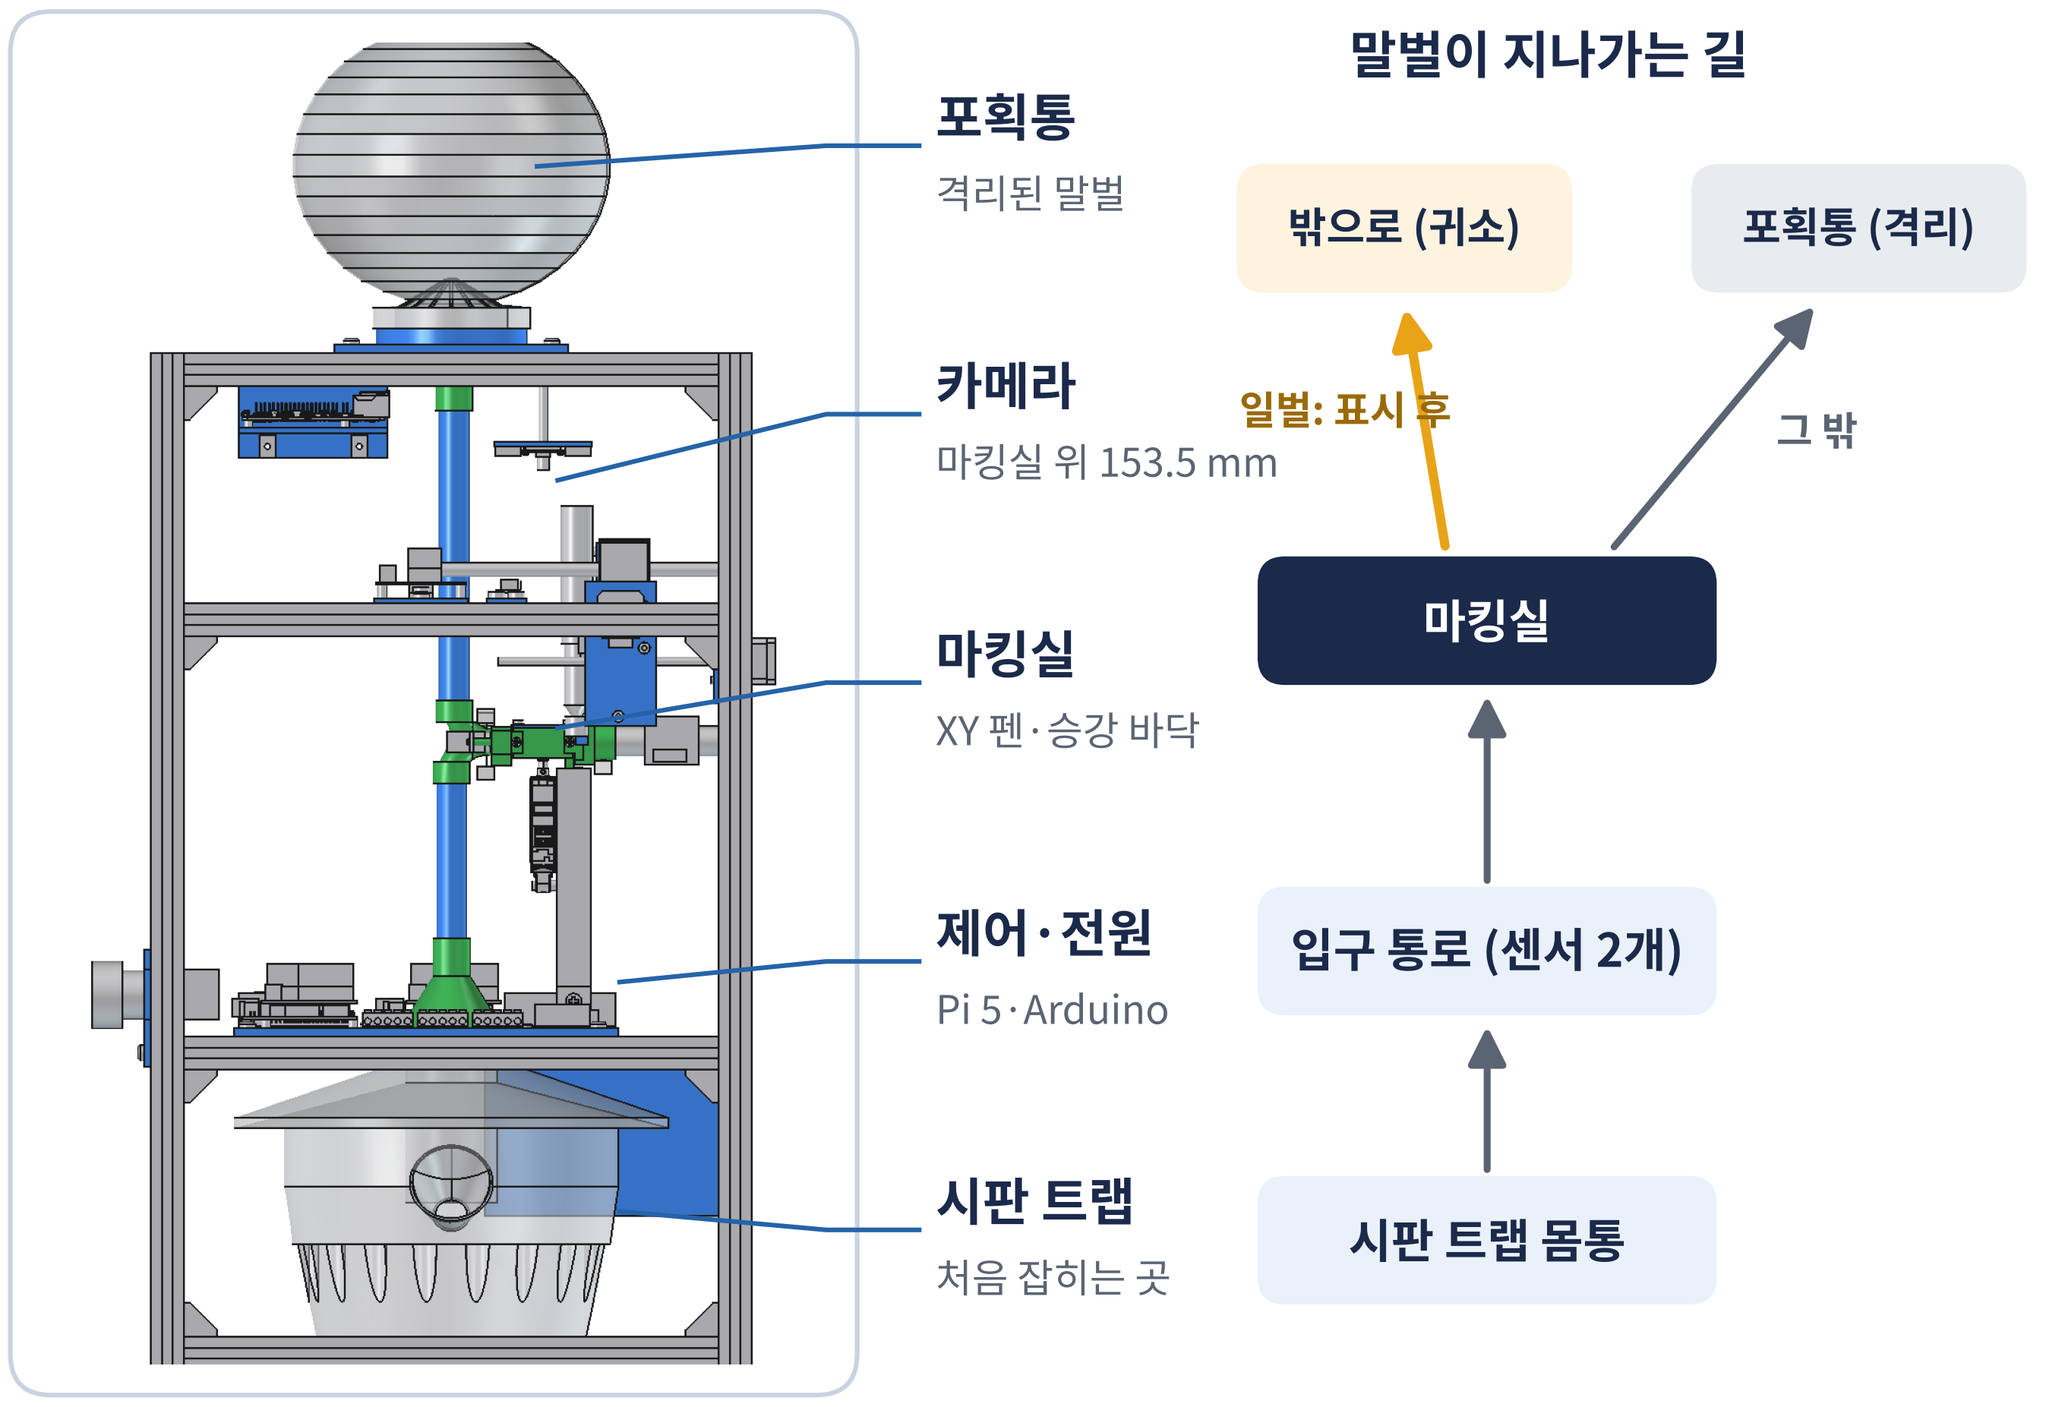
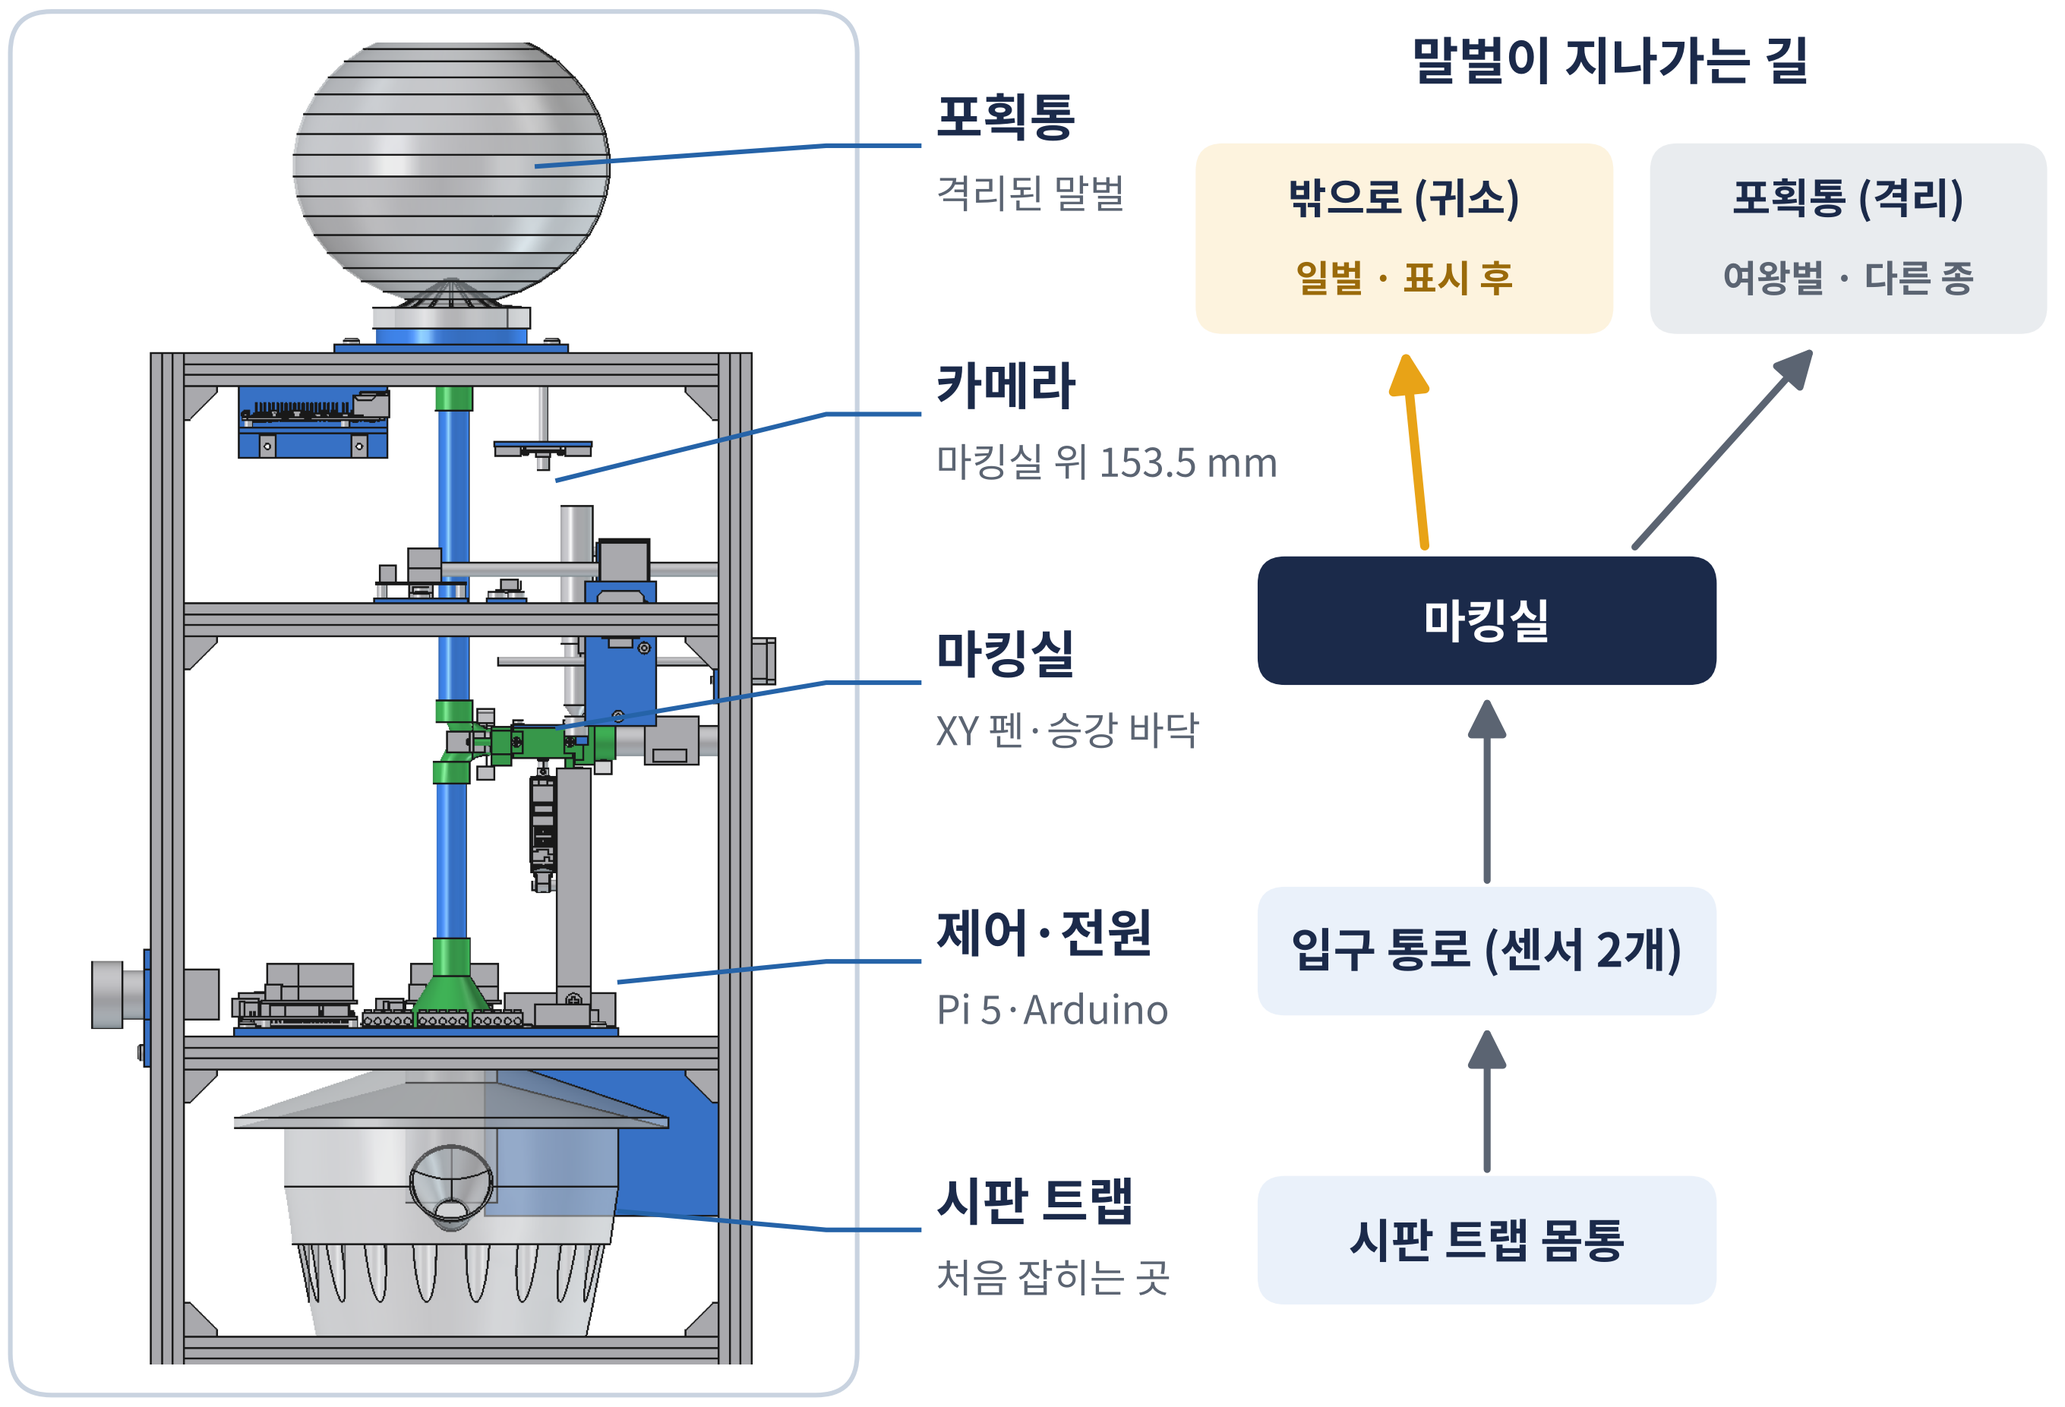
[서현] 포스터·판넬: 그림 겹침 없앰, 결론·향후 (표본 시험 확정·야외 시험 후속), 판넬 다시 배치, 인수인계 11-23 (CAP-AI-62)
Claude-Session: https://claude.ai/code/session_01Jzg83D8Aa1A65w4ViX2JyU

diff --git a/design/poster/figs2.py b/design/poster/figs2.py
@@ -154,7 +154,7 @@ a.add_patch(Rectangle((6, 47.5), 52, 1.6, fc='#8C96A3', ec='none'))
 a.add_patch(FancyBboxPatch((22, 45.2), 8, 6.4, boxstyle='round,pad=0,rounding_size=0.6', fc=BLUE, ec='none'))
 a.add_patch(Polygon([(25.3, 45.2), (26.7, 45.2), (26.0, 40.6)], closed=True, fc=NAVY, ec='none'))
 a.add_patch(FancyArrowPatch((32.5, 45), (32.5, 41.2), arrowstyle='-|>', mutation_scale=26, lw=3, color=BLUE))
-a.text(7, 52.0, 'XY 이송 장치 (펜을 앞뒤·좌우로)', fontsize=20, color=NAVY, weight='bold')
+a.text(36, 53.6, 'XY 이송 장치', fontsize=20, color=NAVY, weight='bold'); a.text(36, 50.6, '펜을 앞뒤·좌우로 옮김', fontsize=17, color=GRAY)
 # 격자판
 a.add_patch(Rectangle((8, 37.5), 44, 2.2, fc=GL, ec=BLUE, lw=2))
 for gx in np.arange(10, 51, 3.0): a.add_patch(Rectangle((gx, 37.5), 1.1, 2.2, fc='white', ec='none'))
@@ -185,7 +185,8 @@ note(26, '3', '힘을 재며 멈춤', '스프링 밑 로드셀이 누르는 힘\
 note(10, '4', '격자 구멍으로 점', '펜 약 0.3 N, 마지막 2 mm는\n천천히 내려 가슴에 점', BLUE)
 a.text(30, 8.5, '모터', ha='center', va='center', fontsize=17, color='white', weight='bold')
 a.text(36.5, 18.2, '로드셀', fontsize=17, color=GRAY, va='center'); a.text(34, 23.5, '스프링', fontsize=17, color=GRAY, va='center')
-a.text(8, 25.5, '투명 격자판 (구멍 Ø3)', fontsize=17, color=BLUE); a.plot([20, 20], [27, 37.4], color=BLUE, lw=1.5)
+a.text(1, 42.6, '투명 격자판\n(구멍 Ø3)', fontsize=17, color=BLUE, linespacing=1.2); a.plot([11.5, 11.5], [42.4, 39.8], color=BLUE, lw=1.5)
+a.text(1.5, 65.2, '마킹실 작동 원리', fontsize=22, color=NAVY, weight='bold')
 a.text(2, 1.2, '마킹실 단면 개념도 (실제 비율 아님)', fontsize=16, color=GRAY)
 f.savefig('fig_idea.png'); plt.close(f)
 
@@ -210,9 +211,27 @@ def box(y, t, fc=LIGHT, tc=NAVY, w=22):
     card(a, X - w / 2, y - 3, w, 6, fc=fc, ec=fc, r=1.2); a.text(X, y, t, ha='center', va='center', fontsize=20, color=tc, weight='bold')
 box(8, '시판 트랩 몸통'); box(22, '입구 통로 (센서 2개)'); box(38, '마킹실', NAVY, 'white')
 arrow(a, X, 11.2, X, 18.6); arrow(a, X, 25.2, X, 34.6)
-card(a, 60, 54, 16, 6, fc='#FDF3DE', ec='#FDF3DE', r=1.2); a.text(68, 57, '밖으로 (귀소)', ha='center', va='center', fontsize=18, color=NAVY, weight='bold')
-card(a, 82, 54, 16, 6, fc='#E9ECEF', ec='#E9ECEF', r=1.2); a.text(90, 57, '포획통 (격리)', ha='center', va='center', fontsize=18, color=NAVY, weight='bold')
-arrow(a, 70, 41.4, 68, 53.4, c=AMBER, lw=4); arrow(a, 78, 41.4, 88, 53.4)
-a.text(60, 47.5, '일벌: 표시 후', fontsize=17, color='#9A6A0A', weight='bold'); a.text(86, 46.5, '그 밖', fontsize=17, color=GRAY, weight='bold')
-a.text(X + 3, 64.5, '말벌이 지나가는 길', ha='center', fontsize=22, color=NAVY, weight='bold')
+card(a, 58, 52, 20, 9, fc='#FDF3DE', ec='#FDF3DE', r=1.2); a.text(68, 58.4, '밖으로 (귀소)', ha='center', va='center', fontsize=18, color=NAVY, weight='bold'); a.text(68, 54.6, '일벌 · 표시 후', ha='center', va='center', fontsize=16, color='#9A6A0A', weight='bold')
+card(a, 80, 52, 19, 9, fc='#E9ECEF', ec='#E9ECEF', r=1.2); a.text(89.5, 58.4, '포획통 (격리)', ha='center', va='center', fontsize=18, color=NAVY, weight='bold'); a.text(89.5, 54.6, '여왕벌 · 다른 종', ha='center', va='center', fontsize=16, color=GRAY, weight='bold')
+arrow(a, 69, 41.4, 68, 51.4, c=AMBER, lw=4); arrow(a, 79, 41.4, 88, 51.4)
+a.text(X + 6, 64.2, '말벌이 지나가는 길', ha='center', fontsize=22, color=NAVY, weight='bold')
 f.savefig('fig_result.png'); plt.close(f)
+
+# ══ 판넬 2번 칸 (설계 및 모델링): CAD 등각 + 설계 요점 — 실제 크기 35.6 × 32 cm (11/23 서현 '판넬 정말 별로')
+PW, PH = 35.6, 32.0
+f = plt.figure(figsize=(PW / 2.54, PH / 2.54), dpi=DPI); a = f.add_axes([0, 0, 1, 1]); a.set_xlim(0, PW); a.set_ylim(0, PH); a.axis('off')
+iso = trim('/home/claude/repo/cad/img/D5g_도1_전체_등각.png', 150, 90); ih = 30.4; iw = ih * iso.width / iso.height
+a.add_patch(FancyBboxPatch((0.2, 0.2), iw + 1.0, PH - 0.4, boxstyle='round,pad=0,rounding_size=0.8', fc='white', ec=LINE, lw=2))
+a.imshow(np.asarray(iso), extent=(0.7, 0.7 + iw, 0.8, 0.8 + ih), zorder=2)
+a.text(iw + 0.6, 0.9, 'CAD 모델', ha='right', va='bottom', fontsize=18, color=GRAY, zorder=3)
+pts = [('시판 트랩 장착형', '시판 트랩 위에 얹는\n2020 알루미늄 프레임'), ('입구 통로', '센서 2개·문으로\n한 마리씩 들여보냄'),
+       ('마킹실', '투명 격자판 (구멍 Ø3)\n승강 바닥·로드셀'), ('XY 펜', '수성 마커, 약 0.3 N\n마지막 2 mm는 천천히'),
+       ('설계 검토', '역학계산 10문제\n부품 167개 간섭 검사')]
+x0 = iw + 2.2
+for i, (t, s) in enumerate(pts):
+    y = PH - 3.4 - i * 6.15
+    a.add_patch(Circle((x0 + 1.1, y), 1.05, fc=BLUE if i in (2, 3) else NAVY, ec='none'))
+    a.text(x0 + 1.1, y, str(i + 1), ha='center', va='center', fontsize=26, color='white', weight='bold')
+    a.text(x0 + 2.8, y + 0.15, t, fontsize=28, color=NAVY, weight='bold', va='center')
+    a.text(x0 + 2.8, y - 1.35, s, fontsize=20, color=GRAY, va='top', linespacing=1.3)
+f.savefig('fig_p_design.png'); plt.close(f)

diff --git a/design/poster/panel_content.py b/design/poster/panel_content.py
@@ -1,4 +1,4 @@
-P11=['등검은말벌: 양봉장 앞에서 꿀벌을 사냥해 벌통 약화·폐사 유발, 전국으로 피해 확산', '시판 트랩은 날아온 일벌만 포획 → 둥지의 여왕벌·새 일벌은 그대로 남아 피해 반복', '근본 대책은 둥지 제거, 그러나 둥지는 높은 나무·숲속에 있어 찾기 어려움', '현재 탐색법: 말벌을 잡아 몸에 표시 후 놓아주고, 돌아오는 방향·시간으로 둥지 위치 추정', '문제: 표시 작업을 사람이 손으로 수행 → 쏘임 위험·한 마리당 긴 작업 시간', '목표: 포획·판별·고정·표시·내보냄 전 과정의 자동화로 사람의 위험 작업 제거']
-P12=['형태: 시판 트랩 위에 얹는 장착형 모듈', '① 들어옴: 입구 문·적외선 센서로 한 번에 한 마리만 입실', '② 판별: 카메라 AI(VespAI 재학습)로 등검은말벌 일벌 확인', '③ 고정: 승강 바닥이 말벌을 투명 격자판에 눌러 고정', '④ 표시: XY 이송 장치가 펜을 옮겨 격자 구멍으로 가슴에 점', '⑤ 내보냄: 출구 문 열림·나간 시각 기록', '여왕벌·다른 종은 표시 없이 격리', '다시 잡힌 시각과 비교 → 왕복 시간으로 둥지 거리 범위 추정']
-P41=['여왕벌 마킹 통 원리의 기계화로 사람 손 없는 고정·표시 구현', 'AI 재학습으로 격자 너머 말벌 917/917 장면 판별', '3D 모델 167개 부품 간섭 검사·제어 모의 시험 180개 통과', '한계: 실물은 대회 이후 제작, 2027년 여름 실제 말벌로 시험']
-P42=['쏘임 위험이 큰 손 표시 작업을 기계로 대체', '재포획 시각 기록 → 왕복 시간으로 둥지 거리 범위 추정', '지자체·방제 기관용 B2G 둥지 조사 장비로 보급', '시험 결과를 바탕으로 특허 출원 추진']
+P11=['등검은말벌: 양봉장 앞에서 꿀벌을 사냥해 벌통 약화·폐사', '시판 트랩은 날아온 일벌만 포획 → 둥지가 남아 피해 반복', '근본 대책은 둥지 제거, 그러나 둥지는 숲속·높은 곳에 있음', '탐색법: 말벌에 표시 후 놓아주고 돌아가는 방향·시간 추적', '문제: 표시를 사람이 손으로 함 → 쏘임 위험·긴 작업 시간', '목표: 판별·고정·표시·내보냄을 기계로 자동화']
+P12=['① 들어옴: 입구 문·센서로 한 마리만 입실', '② 판별: 카메라 AI (VespAI 재학습)로 일벌 확인', '③ 고정: 승강 바닥이 말벌을 격자판에 눌러 고정', '④ 표시: XY 펜이 격자 구멍으로 가슴에 점', '⑤ 내보냄: 출구 문 열림·나간 시각 기록', '여왕벌·다른 종은 표시 없이 격리', '다시 잡힌 시각과 비교 → 둥지 거리 범위 추정']
+P41=['여왕벌 마킹 통 원리를 기계화한 자동 마킹 모듈 설계', 'AI 재학습으로 격자 너머 말벌 917/917 장면 판별', '부품 167개 간섭 검사·제어 모의 시험 180개 통과', '향후: 실물 조립 후 표본 말벌로 동작 시험 (확정)', '야외 귀소 시험은 방생 허가가 필요해 후속 연구로 남김']
+P42=['쏘임 위험이 큰 손 표시 작업을 기계로 대체', '재포획 시각 기록 → 왕복 시간으로 둥지 거리 범위 추정', '지자체·방제 기관용 B2G 둥지 조사 장비로 보급', '표본 시험 결과로 자동 고정·표시 기구 특허 출원 검토']

diff --git a/design/poster/mkpanel.py b/design/poster/mkpanel.py
@@ -30,11 +30,10 @@ def pic(img,x0,y0,w):
     add.append(f'<p:pic><p:nvPicPr><p:cNvPr id="{nid[0]}" name="그림 {nid[0]}"/><p:cNvPicPr><a:picLocks noChangeAspect="1"/></p:cNvPicPr><p:nvPr/></p:nvPicPr><p:blipFill><a:blip r:embed="{rid}"/><a:stretch><a:fillRect/></a:stretch></p:blipFill><p:spPr><a:xfrm><a:off x="{int(x0*CM)}" y="{int(y0*CM)}"/><a:ext cx="{int(w*CM)}" cy="{int(h*CM)}"/></a:xfrm><a:prstGeom prst="rect"><a:avLst/></a:prstGeom></p:spPr></p:pic>')
     return h
 C=__import__('panel_content')
-tb(5.0,26.6,17.8,28.5,C.P11,3200); tb(26.6,26.6,14.6,28.5,C.P12,3200)
-hh=(55.8-23.4-0.5)/2; ww=hh*31.4/21.4; xx=43.5+(37.6-ww)/2
-pic('fig_rep.png',xx,23.4,ww); pic('fig_idea.png',xx,23.4+hh+0.5,ww)
-pic('fig_goal.png',4.2,63.2,37.0); pic('fig_result.png',42.0,63.2,37.6)
-tb(8.6,98.0,31.6,12.0,C.P41,3400); tb(44.6,97.6,36.0,12.0,C.P42,3400)
+tb(5.0,26.6,17.8,28.5,C.P11,3000); tb(26.6,26.6,14.6,28.5,C.P12,3000)   # 11/23: PowerPoint에서 1.2가 칸 밖으로 넘침 → 줄 수·글자 줄임
+pic('fig_p_design.png',44.5,23.4,35.6)                                         # 2번 칸: CAD + 설계 요점 (판넬 전용 그림)
+pic('fig_idea.png',4.8,64.3,36.6); pic('fig_result.png',42.8,64.3,36.6)       # 3번 칸: 마킹실 작동 원리 + 장치 구조·말벌 경로
+tb(8.6,98.0,31.6,12.0,C.P41,3000); tb(44.6,97.6,36.0,12.0,C.P42,3000)
 x=x.replace('</p:spTree>',''.join(add)+'</p:spTree>')
 x=re.sub(r'<a:rPr(?![^>]*noProof)',r'<a:rPr noProof="1"',x)
 open(S,'w',encoding='utf-8').write(x); open(RL,'w',encoding='utf-8').write(rels)

diff --git a/design/poster/content.py b/design/poster/content.py
@@ -8,6 +8,6 @@ BODY={
 '직사각형 37':['입구 문과 적외선 센서로 한 번에 한 마리만 입실','승강 바닥이 말벌을 투명 격자판에 눌러 고정','XY 이송 장치가 펜을 옮겨 격자 구멍으로 점 표시','펜은 약 0.3 N으로 가볍게, 마지막 2 mm는 천천히'],
 '직사각형 42':['역학계산 10문제로 나사·서보·문 힘과 펜 충격 검토','3D 모델 167개 부품의 움직임·간섭 검사 통과','회로 설계와 제어 프로그램 모의 시험 180개 통과','AI 재학습으로 격자 너머 말벌 917/917 장면 판별','부품 61종 구매, 판 16장 가공·3D 프린트 9종 주문'],
 '직사각형 43':['위험한 말벌 표시 작업을 기계가 대신해 쏘임 위험 제거','기록된 왕복 시간으로 둥지까지 거리 범위 추정'],
-'직사각형 44':['지자체·방제 기관용 둥지 조사 장비 (B2G)로 보급','2027년 여름 실제 말벌로 표시·귀소 시험','시험 결과를 바탕으로 특허 출원 추진'],
+'직사각형 44':['실물 조립 후 표본 말벌로 판별·고정·표시 동작 시험','야외 귀소 시험은 방생 허가 필요 → 후속 연구로 제안','표본 시험 결과로 B2G 보급·특허 출원 검토'],
 }
 PICS={'직사각형 12':'fig_rep.png','직사각형 45':'fig_goal.png','직사각형 46':'fig_idea.png','직사각형 48':'fig_result.png','직사각형 47':'fig_use.png'}

diff --git a/ai-log/AI_명령사항_로그.md b/ai-log/AI_명령사항_로그.md
@@ -1443,3 +1443,12 @@
   - PC 사본 맞춤: 바뀐 21개 + 바탕화면 부품정리 엑셀. 덮기 전 모두 git 옛 버전 확인 (PNG는 바이트가 바뀌어 픽셀로 확인 → 하네스 8장 함정 추가)
   - PC 작업 레포 (`C:\capstone`) pull: FreeCAD MCP 응답 없음 → 못 함
   - 남은 것: 신청서 `_초안.xlsx` 삭제 (Excel에 열려 있음), 학번·개인정보 동의, 11/24 11:00 앵커 제출 (서현), 보고서·발표 PPT 새 그림 맞추기, 11/26 판넬 PDF, PC 사본 옛 인수인계 11-17·18·19 (지울 권한 없음)
+- **(11/23 15:28~15:50) 서현 (그림 4 캡처 + PowerPoint 판넬 캡처) "선 겹치는 이런 거 없애고, 표본으로 실험하는 것은 확정 — 그것 정해줘. 창의융합 포스터는 정말 별로, 실제 시험은 안 할 것 같으니 결론·향후 계획 다시, 지적한 것 전부 바꿔":**
+  - 그림 4 (`fig_result`): '일벌: 표시 후'가 주황 화살표를 가로지름 → 목적지 상자 안 둘째 줄로 ('일벌 · 표시 후' / '여왕벌 · 다른 종'), 화살표는 상자 밑에서 멈춤
+  - 그림 3 (`fig_idea`): 'XY 이송 장치' 글이 펜 상자에 닿음 → 레일 오른쪽 위로, '투명 격자판' 지시선이 말벌·바닥을 지남 → 왼쪽 위 짧은 선으로, 제목 '마킹실 작동 원리' 넣음. 그림 1·2·5는 겹침 없음 확인
+  - 결론·향후 (AI 판단, 서현 위임): 표본 말벌 동작 시험 = 확정, 야외 귀소 시험 = 방생 허가 필요 → 후속 연구로 제안, 특허·B2G는 '검토'로 낮춤 (포스터 향후 3줄, 판넬 4.1·4.2)
+  - 판넬 다시 배치: PowerPoint에서 1.2가 칸 밖으로 넘친 원인 [가능성 높음] = 맑은 고딕 줄 높이가 LibreOffice 대신 글꼴보다 큼 → 1.1·1.2 30 pt, 한 줄 ≤ 칸 폭으로 줄임 (설명 내용은 유지). 2번 칸 = CAD 등각 + 설계 요점 5개 새 그림 `fig_p_design.png` (figs2.py 끝), 3번 칸 = 작동 원리 (그림 3) + 장치 구조·경로 (그림 4), 5단계 그림은 1.2 글과 겹쳐 뺌. 11/23 15:18 서현이 옮긴 그림 자리 (0.32 cm)는 배치가 바뀌어 해당 없음
+  - figs2.py 전체 실행은 `vespai_v.jpg` (말벌 사진 — 레포에 없음)가 있어야 함 → 머리 + 그림 3·4·판넬 부분만 돌림. 경로 `/home/claude/repo`는 레포 링크로
+  - 확인: LibreOffice 렌더 (포스터·판넬) — 넘침·겹침 없음. 앵커 양식 제목 '1. 설계 주제' 두 줄 겹침은 LibreOffice 글꼴 문제로 보임 (PowerPoint 확인 못 함, 미검증)
+  - 바탕화면: 앵커 포스터 덮음. **판넬은 PowerPoint에 열려 있어 못 덮음** → 서현이 닫으면 덮기
+  - 인수인계 11-20 → 11-23 (git mv), 맨 앞 '11/23 15:28'. 남은 것: 최종보고서 (`report.js` 145줄)·발표 PPT (`ppt.py` 72줄)의 '2027 여름 실물 시험' 문장, 신청서 `_초안.xlsx` 삭제, 학번·동의, 11/24 11:00 앵커 제출

diff --git a/README.md b/README.md
@@ -15,7 +15,7 @@ https://docs.google.com/presentation/d/1Sau8DxgiKAaaifgAzFaC2a1HySPL3LUgt0teYuxn
 | 조사 모드 | 여왕벌은 가둠, 일벌은 흉부에 수성 아크릴 마커로 점 → 먹이 → 방생, 다시 잡히면 로그 → 먹이 → 방생 |
 
 - 지도교수: 김성관 교수님 · 팀장 이서현 · 팀원 이승준
-- 지금 상태: [`docs/00_새채팅_인수인계_2026-11-20.md`](docs/00_새채팅_인수인계_2026-11-20.md)
+- 지금 상태: [`docs/00_새채팅_인수인계_2026-11-23.md`](docs/00_새채팅_인수인계_2026-11-23.md)
 - 역할 분담: [`docs/2026-10-28_분업계획_서현_승준.md`](docs/2026-10-28_분업계획_서현_승준.md)
 - GitHub 쓰는 법 (Chrome만): [`docs/GitHub_사용법_Chrome.md`](docs/GitHub_사용법_Chrome.md)
 - Claude 새 채팅 시작: [`docs/00_새채팅_시작키.md`](docs/00_새채팅_시작키.md)
